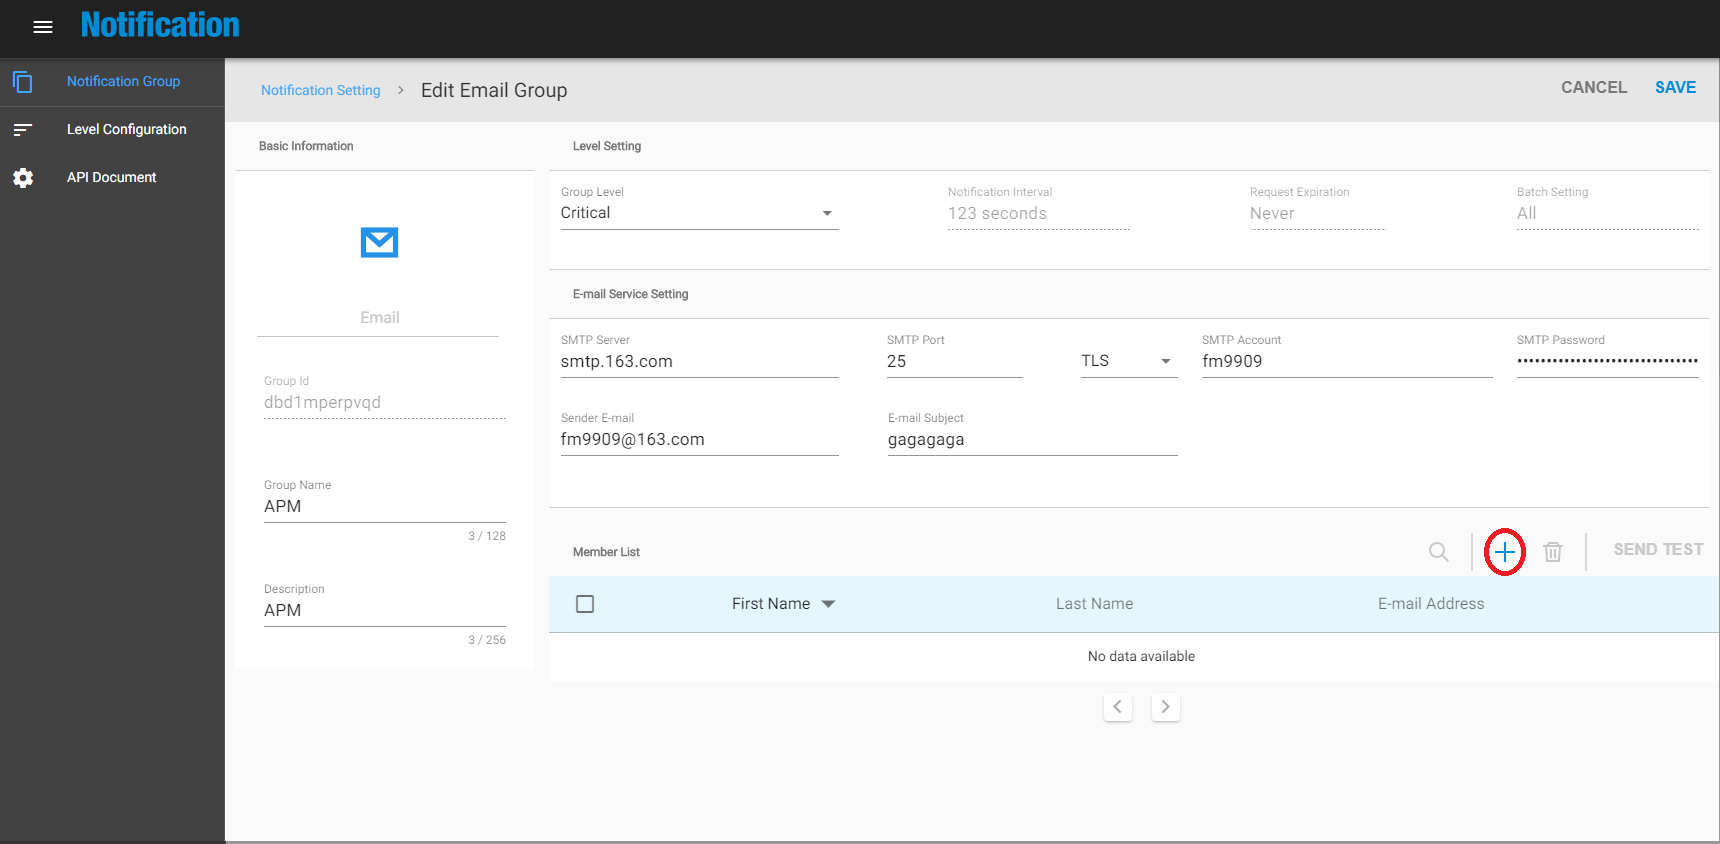
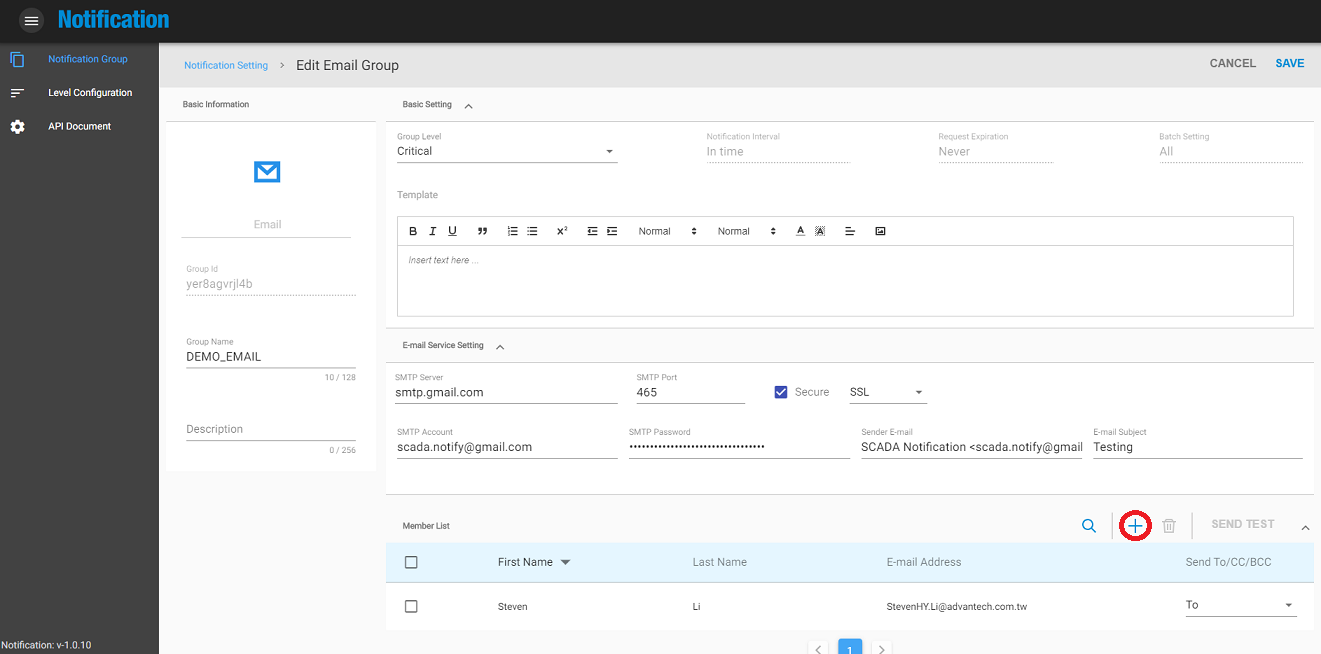
[add] template guide

diff --git a/functions/notification-group/email.md b/functions/notification-group/email.md
@@ -19,9 +19,35 @@ Support for Email notifications. Users can use their own mail server or mail ser
 For example \(Gmail setting\):  
 ![](/assets/email_setting.png)
 
+### Group Level
+Choose a defined level according to your notification strategy. Default is "Critical" means notifying message in time.
+
+### Templcate
+Support `HTML` and `Text` content. You can pre-define your message template here. When you call `/send` API, you don't need to send entire message string every time, just send the variables.
+
+For example, we pre-define a sentence contains a variable {cocktail} and a picture.
+
+![](/assets/email_template1.png)
+
+So, when you call `/send` API, you just need to send the following body, you will receive a email with entire message.
+```
+[
+  {
+    "groupId": "yer8agvrjl4b",
+    "useTemplate": true,
+    "variables": {"cocktail": "Negroni"}
+  }
+]
+```
+
+![](/assets/email_template2.png)
+
+
 ### Add a Member
 
 ![](/assets/email_add_member1.png)
+
+You can assign the recipient type (To/CC/BCC) to a new member.
 
 ![](/assets/email_add_member2.png)
 

diff --git a/functions/notification-group/line.md b/functions/notification-group/line.md
@@ -26,6 +26,27 @@ Scan the following QR Code to add LINE Notify as your friend to use the notifica
 
 ![](/assets/line_token.png)
 
+### Group Level
+Choose a defined level according to your notification strategy. Default is "Critical" means notifying message in time.
+
+### Templcate
+Support `Text` content. You can pre-define your message template here. When you call `/send` API, you don't need to send entire message string every time, just send the variables.
+
+For example, we pre-define a sentence contains a variable {name}.
+
+![](/assets/line_template1.png)
+
+So, when you call `/send` API, you just need to send the following body, you will receive a LINE message with entire message.
+```
+[
+  {
+    "groupId": "yer8agvrjl4b",
+    "useTemplate": true,
+    "variables": {"name": "Steven"}
+  }
+]
+```
+
 ### Add a Member
 
 ![](/assets/line_add_member1.png)

diff --git a/functions/notification-group/wechat.md b/functions/notification-group/wechat.md
@@ -49,6 +49,28 @@
 
 ![](/assets/wechat_business_info.png)
 
+
+### Group Level
+Choose a defined level according to your notification strategy. Default is "Critical" means notifying message in time.
+
+### Templcate
+Support `Text` content. You can pre-define your message template here. When you call `/send` API, you don't need to send entire message string every time, just send the variables.
+
+For example, we pre-define a sentence contains a variable {name}.
+
+![](/assets/wechat_template1.png)
+
+So, when you call `/send` API, you just need to send the following body, you will receive a WeChat message with entire message.
+```
+[
+  {
+    "groupId": "yer8agvrjl4b",
+    "useTemplate": true,
+    "variables": {"name": "Steven"}
+  }
+]
+```
+
 ### 增加通知人員
 
 1. 填上上述取得的agentId, agentSecret和cropId
